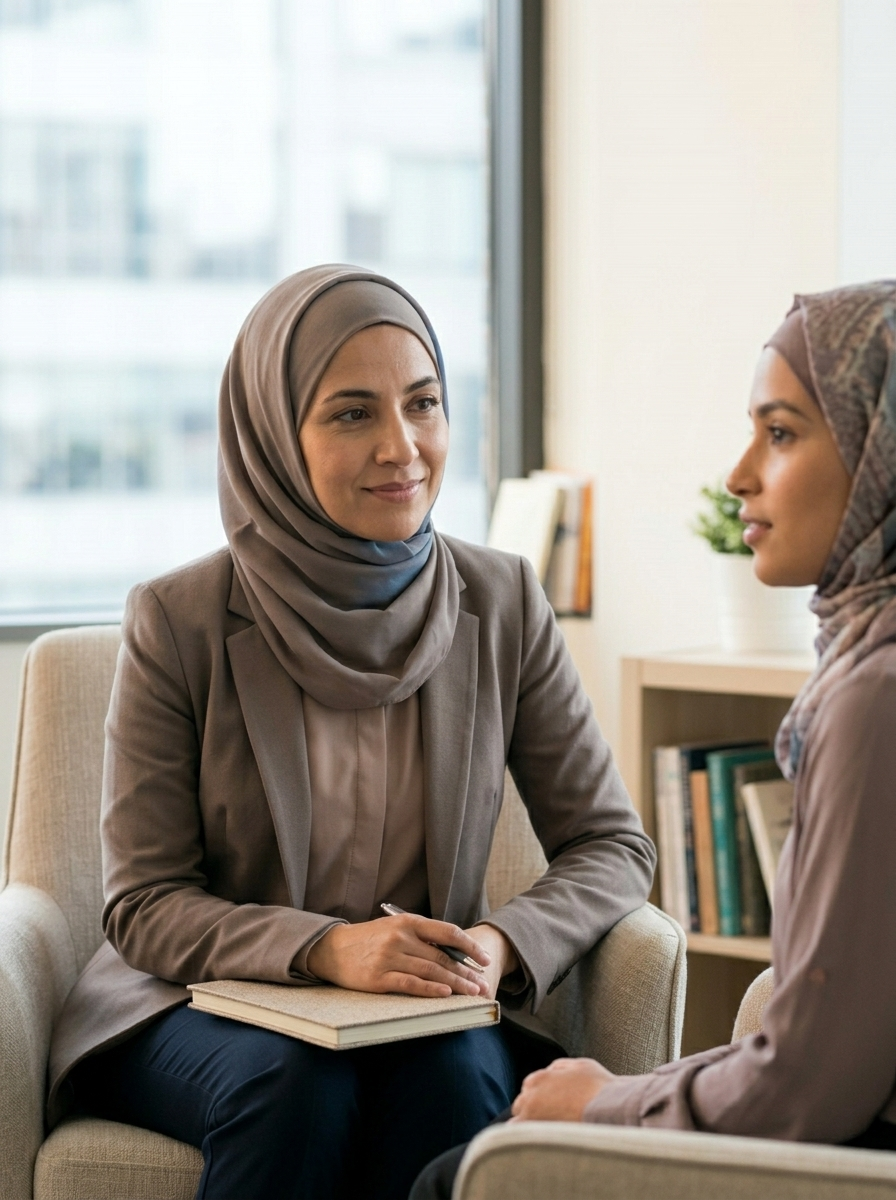
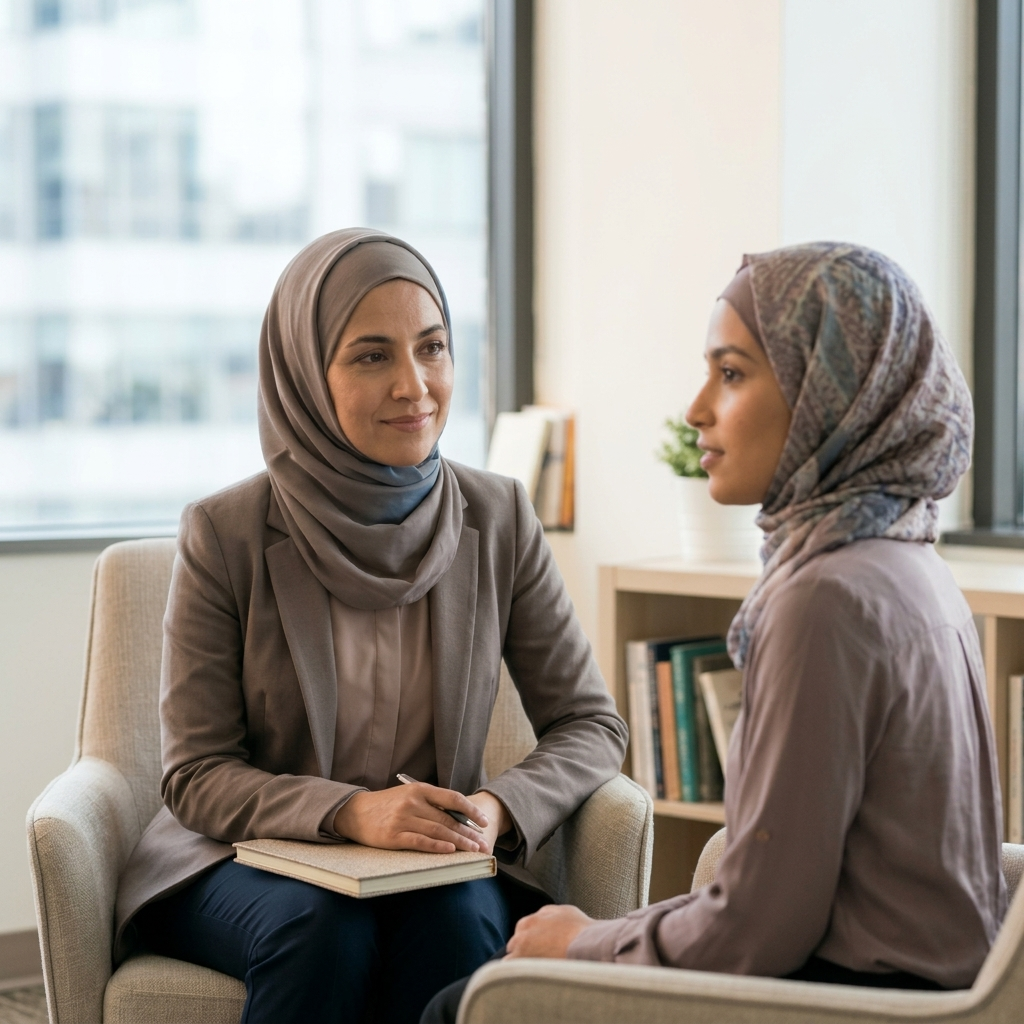
WhoIWorkWith section layout change

diff --git a/src/components/WhoIWorkWith.tsx b/src/components/WhoIWorkWith.tsx
@@ -27,29 +27,29 @@ export const WhoIWorkWith: React.FC = () => {
   return (
     <section
       id="who-this-is-for"
-      className="overflow-hidden border-t border-[#1F3A44]/10 bg-white px-5 py-20 sm:px-8 md:py-28 lg:py-32"
+      className="overflow-hidden border-t border-[#1F3A44]/10 bg-white px-5 py-16 sm:px-8 md:py-20 lg:py-24"
     >
-      <div className="mx-auto grid max-w-6xl items-start gap-12 xl:grid-cols-[minmax(0,5fr)_minmax(0,7fr)] xl:gap-20">
+      <div className="mx-auto grid max-w-6xl items-start gap-10 xl:grid-cols-[minmax(0,5fr)_minmax(0,6fr)] xl:items-stretch xl:gap-16">
         {/* Left: statement + image */}
         <div>
           <p className="font-serif text-lg italic text-[#3E8A99]">
             Who this is for
           </p>
-          <h2 className="mt-4 max-w-[14ch] font-serif text-[2.4rem] font-normal leading-[1.05] tracking-[-0.025em] text-[#1F3A44] sm:text-[3rem] md:text-[3.5rem]">
+          <h2 className="mt-3 max-w-[14ch] font-serif text-[2.4rem] font-normal leading-[1.05] tracking-[-0.025em] text-[#1F3A44] sm:text-[3rem] xl:max-w-none xl:text-[3.25rem]">
             Youth and women
           </h2>
-          <p className="mt-6 max-w-[36ch] text-base leading-[1.75] text-[#5F7780] sm:text-lg">
+          <p className="mt-5 max-w-[44ch] text-base leading-[1.7] text-[#5F7780] sm:text-lg">
             For youth and women navigating relationships, identity, family,
-            career, work, and self-developement. You do not need a tidy question before you
-            write.
+            career, work, and self-development. You do not need a tidy question
+            before you write.
           </p>
 
-          <div className="relative mt-12 max-w-[22rem] sm:max-w-[26rem] xl:mt-14 xl:max-w-none">
+          <div className="relative mt-10 max-w-[22rem] sm:max-w-[26rem] xl:max-w-none">
             <div
               className="absolute inset-0 translate-x-3 translate-y-3 border border-[#3E8A99]/40"
               aria-hidden="true"
             />
-            <div className="relative aspect-[4/5] bg-[#E8EEF0]">
+            <div className="relative aspect-[4/5] bg-[#E8EEF0] xl:aspect-[4/3]">
               <img
                 src="/hijabi-coach-with-client.jpg"
                 alt="A coach and a client in quiet conversation"
@@ -62,23 +62,22 @@ export const WhoIWorkWith: React.FC = () => {
         </div>
 
         {/* Right: list */}
-        <div>
-          <ul className="border-t border-[#1F3A44]">
+        <div className="xl:flex xl:flex-col">
+          <ul className="border-t border-[#1F3A44] xl:flex xl:flex-1 xl:flex-col">
             {groups.map((item) => (
               <li
                 key={item.title}
-                className="-mx-4 grid gap-2 border-b border-[#1F3A44]/15 px-4 py-6 transition-colors duration-200 hover:bg-[#F3F9FA] motion-reduce:transition-none md:grid-cols-[11rem_1fr] md:gap-8 md:py-8"
+                className="-mx-4 grid gap-2 border-b border-[#1F3A44]/15 px-4 py-6 transition-colors duration-200 hover:bg-[#F3F9FA] motion-reduce:transition-none md:grid-cols-[12rem_1fr] md:gap-8 md:py-7 xl:flex-1 xl:content-center"
               >
                 <h3 className="font-serif text-[1.5rem] font-normal leading-tight text-[#1F3A44] md:text-[1.6rem]">
                   {item.title}
                 </h3>
-                <p className="max-w-[40ch] text-base leading-[1.75] text-[#5F7780] sm:pt-1.5">
+                <p className="max-w-[46ch] text-base leading-[1.7] text-[#5F7780] sm:pt-1.5">
                   {item.description}
                 </p>
               </li>
             ))}
           </ul>
-
         </div>
       </div>
     </section>
